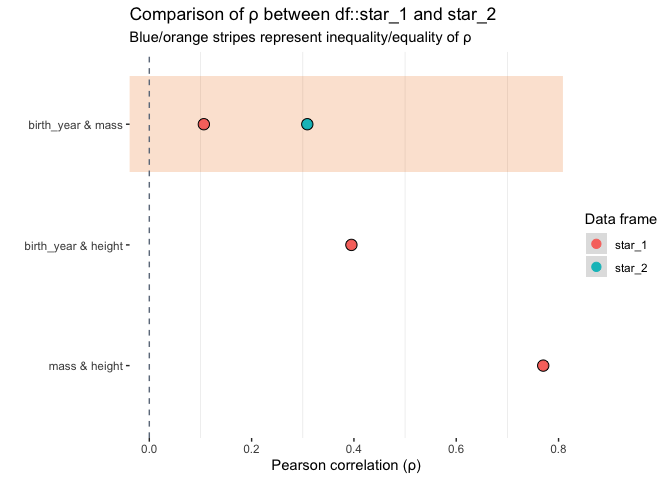
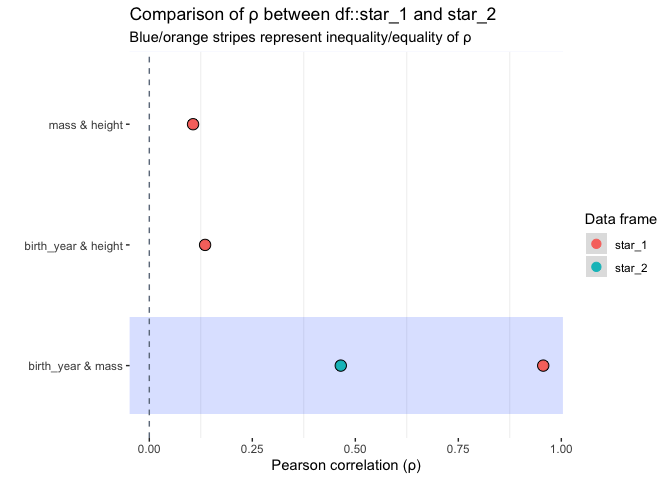
v0.0.2

diff --git a/README.md b/README.md
@@ -176,21 +176,21 @@ inspect_mem(star_1, star_2)
 ```
 
     ## # A tibble: 13 x 5
-    ##    col_name   size_1     size_2     pcnt_1 pcnt_2
-    ##    <chr>      <chr>      <chr>       <dbl>  <dbl>
-    ##  1 films      11.02 Kb   11.85 Kb   35.3    41.4 
-    ##  2 starships  3.79 Kb    3.93 Kb    12.1    13.7 
-    ##  3 name       3.59 Kb    <NA>       11.5    NA   
-    ##  4 vehicles   3.23 Kb    3.33 Kb    10.3    11.6 
-    ##  5 homeworld  2.24 Kb    2.23 Kb     7.19    7.80
-    ##  6 species    1.88 Kb    1.97 Kb     6.03    6.87
-    ##  7 skin_color 1.75 Kb    1.81 Kb     5.61    6.33
-    ##  8 eye_color  1008 bytes 1016 bytes  3.15    3.46
-    ##  9 hair_color 968 bytes  1016 bytes  3.03    3.46
-    ## 10 gender     680 bytes  680 bytes   2.13    2.32
-    ## 11 mass       448 bytes  448 bytes   1.40    1.53
-    ## 12 birth_year 448 bytes  448 bytes   1.40    1.53
-    ## 13 height     248 bytes  <NA>        0.776  NA
+    ##    col_name   size_1    size_2    pcnt_1 pcnt_2
+    ##    <chr>      <chr>     <chr>      <dbl>  <dbl>
+    ##  1 films      10.94 Kb  11.85 Kb  33.8    41.8 
+    ##  2 starships  4.53 Kb   4.47 Kb   14.0    15.8 
+    ##  3 name       3.57 Kb   <NA>      11.0    NA   
+    ##  4 vehicles   3.23 Kb   3.45 Kb    9.98   12.2 
+    ##  5 homeworld  2.31 Kb   1.94 Kb    7.15    6.84
+    ##  6 skin_color 1.97 Kb   1.61 Kb    6.09    5.68
+    ##  7 species    1.93 Kb   1.48 Kb    5.97    5.24
+    ##  8 hair_color 1.06 Kb   968 bytes  3.29    3.34
+    ##  9 eye_color  1 Kb      1.05 Kb    3.09    3.69
+    ## 10 gender     680 bytes 680 bytes  2.05    2.34
+    ## 11 mass       448 bytes 448 bytes  1.35    1.54
+    ## 12 birth_year 448 bytes 448 bytes  1.35    1.54
+    ## 13 height     248 bytes <NA>       0.749  NA
 
 ``` r
 inspect_mem(star_1, star_2) %>% show_plot()
@@ -251,13 +251,13 @@ inspect_na(star_1, star_2)
     ## # A tibble: 13 x 6
     ##    col_name   cnt_1 pcnt_1 cnt_2 pcnt_2 p_value
     ##    <chr>      <dbl>  <dbl> <dbl>  <dbl>   <dbl>
-    ##  1 birth_year    23     46    25     50   0.841
-    ##  2 mass          12     24    17     34   0.378
-    ##  3 hair_color     4      8     2      4   0.674
-    ##  4 homeworld      3      6     9     18   0.124
+    ##  1 birth_year    25     50    21     42   0.547
+    ##  2 mass          15     30    20     40   0.402
+    ##  3 hair_color     3      6     3      6   1    
+    ##  4 homeworld      3      6     8     16   0.201
     ##  5 species        3      6     3      6   1    
-    ##  6 gender         2      4     1      2   1    
-    ##  7 height         1      2    NA     NA  NA    
+    ##  6 height         2      4    NA     NA  NA    
+    ##  7 gender         1      2     2      4   1    
     ##  8 name           0      0    NA     NA  NA    
     ##  9 skin_color     0      0     0      0  NA    
     ## 10 eye_color      0      0     0      0  NA    
@@ -337,11 +337,11 @@ inspect_cor(star_1, star_2)
 ```
 
     ## # A tibble: 3 x 5
-    ##   col_1      col_2  corr_1 corr_2  p_value
-    ##   <chr>      <chr>   <dbl>  <dbl>    <dbl>
-    ## 1 birth_year mass   0.942   0.469  1.49e-9
-    ## 2 birth_year height 0.136  NA     NA      
-    ## 3 mass       height 0.0881 NA     NA
+    ##   col_1      col_2  corr_1 corr_2   p_value
+    ##   <chr>      <chr>   <dbl>  <dbl>     <dbl>
+    ## 1 birth_year mass    0.956  0.465  1.37e-11
+    ## 2 birth_year height  0.135 NA     NA       
+    ## 3 mass       height  0.106 NA     NA
 
 ``` r
 inspect_cor(star_1, star_2) %>% show_plot()
@@ -410,13 +410,13 @@ inspect_imb(star_1, star_2)
     ## # A tibble: 7 x 7
     ##   col_name   value  pcnt_1 cnt_1 pcnt_2 cnt_2 p_value
     ##   <chr>      <chr>   <dbl> <int>  <dbl> <int>   <dbl>
-    ## 1 gender     male      74     37     68    34   0.659
-    ## 2 hair_color none      44     22     40    20   0.839
-    ## 3 species    Human     36     18     38    19   1    
-    ## 4 eye_color  blue      22     11     NA    NA  NA    
-    ## 5 skin_color fair      18      9     18     9   1    
-    ## 6 homeworld  Naboo     14.     7     NA    NA  NA    
-    ## 7 name       Ackbar     2      1     NA    NA  NA
+    ## 1 gender     male       72    36    66     33   0.665
+    ## 2 hair_color none       46    23    30     15   0.149
+    ## 3 species    Human      34    17    50     25   0.156
+    ## 4 eye_color  blue       22    11    NA     NA  NA    
+    ## 5 homeworld  Naboo      18     9    18      9   1    
+    ## 6 skin_color fair       16     8    28.    14   0.227
+    ## 7 name       Ackbar      2     1    NA     NA  NA
 
 ``` r
 inspect_imb(star_1, star_2) %>% show_plot()
@@ -524,11 +524,11 @@ inspect_num(star_1, star_2)
 ```
 
     ## # A tibble: 3 x 5
-    ##   col_name   hist_1            hist_2                 jsd fisher_p
-    ##   <chr>      <list>            <list>               <dbl>    <dbl>
-    ## 1 birth_year <tibble [14 × 2]> <tibble [14 × 2]>  0.0693     0.206
-    ## 2 height     <tibble [22 × 2]> <NULL>            NA         NA    
-    ## 3 mass       <tibble [30 × 2]> <tibble [30 × 2]>  0.00247    0.929
+    ##   col_name   hist_1            hist_2                jsd fisher_p
+    ##   <chr>      <list>            <list>              <dbl>    <dbl>
+    ## 1 birth_year <tibble [14 × 2]> <tibble [14 × 2]>  0.0936    0.136
+    ## 2 height     <tibble [19 × 2]> <NULL>            NA        NA    
+    ## 3 mass       <tibble [30 × 2]> <tibble [30 × 2]>  0.0212    0.802
 
 ``` r
 inspect_num(star_1, star_2) %>% show_plot()
@@ -603,7 +603,7 @@ inspect_cat(starwars) %>% show_plot()
 
 The argument `high_cardinality` in the `show_plot()` function can be
 used to bundle together categories that occur only a small number of
-times. For example, to combine categories only occuring once, use:
+times. For example, to combine categories only occurring once, use:
 
 ``` r
 inspect_cat(starwars) %>% 
@@ -629,13 +629,13 @@ inspect_cat(star_1, star_2)
     ## # A tibble: 7 x 5
     ##   col_name        jsd fisher_p lvls_1            lvls_2           
     ##   <chr>         <dbl>    <dbl> <list>            <list>           
-    ## 1 eye_color   0.0468     0.998 <tibble [10 × 3]> <tibble [10 × 3]>
-    ## 2 gender      0.00892    0.868 <tibble [5 × 3]>  <tibble [5 × 3]> 
-    ## 3 hair_color  0.0379     0.997 <tibble [10 × 3]> <tibble [11 × 3]>
-    ## 4 homeworld   0.219      1.000 <tibble [32 × 3]> <tibble [32 × 3]>
+    ## 1 eye_color   0.0821     0.544 <tibble [10 × 3]> <tibble [11 × 3]>
+    ## 2 gender      0.00471    0.945 <tibble [5 × 3]>  <tibble [5 × 3]> 
+    ## 3 hair_color  0.0543     0.866 <tibble [12 × 3]> <tibble [10 × 3]>
+    ## 4 homeworld   0.235      1.000 <tibble [33 × 3]> <tibble [26 × 3]>
     ## 5 name       NA         NA     <tibble [50 × 3]> <NULL>           
-    ## 6 skin_color  0.133      1.000 <tibble [22 × 3]> <tibble [23 × 3]>
-    ## 7 species     0.154      1     <tibble [26 × 3]> <tibble [27 × 3]>
+    ## 6 skin_color  0.147      0.995 <tibble [26 × 3]> <tibble [20 × 3]>
+    ## 7 species     0.174      1.000 <tibble [27 × 3]> <tibble [19 × 3]>
 
 ``` r
 inspect_cat(star_1, star_2) %>% show_plot()

diff --git a/NEWS.md b/NEWS.md
@@ -1,6 +1,15 @@
 
 ### News
 
-##### `inspectdf` 0.0.1
+#### `inspectdf` 0.0.2
+
+  - `show_plot()` function (`show_plot` argument in `inspect_` functions
+    will be dropped in a future version)
+  - `high_cardinality` argument in `show_plot()` for combining unique or
+    near-unique categories for plotting `inspect_cat()`.
+  - `progress` bars shown when processing larger datasets
+  - Improvements to plots throughout
+
+#### `inspectdf` 0.0.1
 
   - Initial CRAN release
